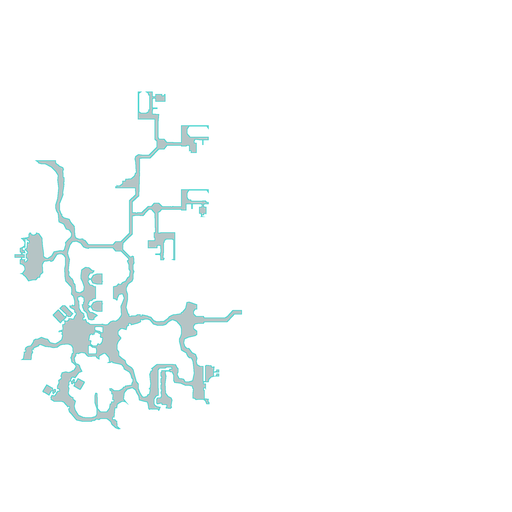
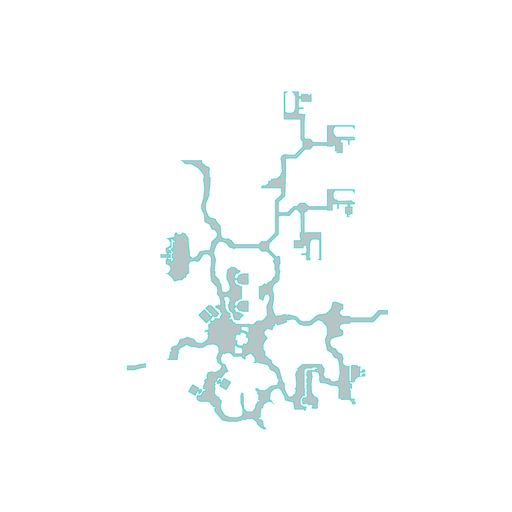
Restore full Windurst map and align grid

Changed region(s): [[0.0312, 0.1562, 0.75, 0.8438], [0.5, 0.1562, 0.6875, 0.5312]]

diff --git a/tools/generate_vanilla_layer.py b/tools/generate_vanilla_layer.py
@@ -6,7 +6,7 @@ from __future__ import annotations
 import argparse
 from pathlib import Path
 
-from PIL import Image
+from PIL import Image, ImageChops
 
 from generate_vanilla_map import decode, parse_box
 
@@ -16,6 +16,12 @@ def main() -> None:
     parser.add_argument("source", type=Path)
     parser.add_argument("destination", type=Path)
     parser.add_argument(
+        "--x-offset",
+        type=int,
+        default=0,
+        help="cyclic horizontal source offset applied before visibility masking",
+    )
+    parser.add_argument(
         "--box",
         type=parse_box,
         default=(0, 0, 512, 512),
@@ -24,6 +30,8 @@ def main() -> None:
     arguments = parser.parse_args()
 
     source = decode(arguments.source).convert("RGBA")
+    if arguments.x_offset:
+        source = ImageChops.offset(source, arguments.x_offset, 0)
     output = Image.new("RGBA", source.size, (0, 0, 0, 0))
     left, top, _, _ = arguments.box
     region = source.crop(arguments.box)

diff --git a/assets/maps/241.md b/assets/maps/241.md
@@ -2,15 +2,14 @@
 
 ## Optional vanilla layer
 
-`241_vanilla.png` is decoded directly from `<FFXI>/ROM/18/72.DAT`. The
-Windurst Woods page occupies source rectangle `(0,0)-(364,512)`; the adjacent
-composite page is transparent in this layer. Source alpha is normalized to
-opaque so the addon's independent vanilla-opacity slider is a direct 0–100%
-control.
+`241_vanilla.png` is decoded directly from `<FFXI>/ROM/18/72.DAT`. The source
+page wraps horizontally at x=366. A cyclic +146 px offset restores the missing
+A-D section to the left of E-O, producing the complete 512 × 512 Windurst Woods
+page. Source alpha is normalized to opaque so the addon's independent
+vanilla-opacity slider is a direct 0–100% control.
 
-The rectangle includes the full coordinate strip and page border and ends
-immediately before the two-pixel dark separator. The same rectangle is stored
-as `view_bounds`, making the complete vanilla page the maximum zoom-out view.
+The full rectangle `(0,0)-(512,512)` is stored as `view_bounds`, making the
+complete vanilla page the maximum zoom-out view.
 When the overview viewport reaches a page edge, the camera moves the player
 off-center rather than hiding the opposite edge. This affects only screen
 framing, not calibration.
@@ -19,7 +18,8 @@ framing, not calibration.
 python tools/generate_vanilla_layer.py \
   <FFXI>/ROM/18/72.DAT \
   assets/maps/241_vanilla.png \
-  --box 0,0,364,512
+  --x-offset 146 \
+  --box 0,0,512,512
 ```
 
 ## Walkable structure (current)
@@ -35,11 +35,11 @@ python tools/generate_walkable_map.py \
   <xiNavmeshOBJs>/obj/Windurst_Woods.obj \
   <xiNavmeshes>/Windurst_Woods.nav \
   assets/maps/241_structure.png \
-  --origin-x 108.5 \
+  --origin-x 254.5 \
   --origin-y 288.0 \
   --pixels-per-yalm 0.80 \
   --seed 15,0 \
-  --exclude-box 0,360,61,371
+  --exclude-box 146,360,207,371
 ```
 
 The generator validates that both sources share an origin and keeps only the
@@ -60,7 +60,7 @@ See `THIRD_PARTY_NOTICES.md` for source revisions and licensing.
 - Vanilla DAT: `<FFXI>/ROM/18/72.DAT`
 - Embedded page identifier: `m_241_00`
 - Source dimensions: `512 × 512`
-- Horizontal wrap: none
+- Horizontal unwrap offset: `+146 px`
 
 The source was decoded directly with `tools/generate_vanilla_map.py`. The
 vanilla and walkable-structure layers retain identical source dimensions and
@@ -76,19 +76,18 @@ The vanilla coordinate grid is 32 source pixels per cell. Windurst Woods uses
 image_pixels_per_yalm = 32 / 40 = 0.80
 ```
 
-The page is not horizontally wrapped. The decoded artwork grid is not a
-reliable renderer origin for this page. With both minimaps set to the measured
-stock scale of `3.13 px/yalm`, live NPC control points align while the custom
-artwork is `130` screen pixels down and `4` screen pixels left. At
-`3.13 / 0.80 = 3.9125` screen pixels per source pixel, this is a correction of
-approximately `+33` source pixels vertically and `-1` horizontally:
+After the +146 px horizontal unwrap, the decoded artwork grid is not itself a
+reliable navigation-geometry origin. Live NPC control points establish:
 
 ```text
-origin_x = 108.5
+origin_x = 254.5
 origin_y = 288.0
 ```
 
 These source-image values are independent of viewport size and display zoom.
+The vanilla artwork's H-8 grid center is `(255, 256)`, so the renderer stores
+that as a separate grid origin. It must not use the geometry origin `(254.5,
+288)` for quadrant labels; doing so shifts every displayed row down by one.
 Calibrate against stock-rendered geometry only after matching zoom via live
 entity control points; do not infer the renderer origin from decorative grid
 pixels.

diff --git a/docs/MAP_CALIBRATION.md b/docs/MAP_CALIBRATION.md
@@ -21,7 +21,8 @@ The same transform must be used for:
 - the structure layer;
 - the player marker;
 - entity and target markers;
-- the Lua-rendered coordinate grid.
+- the Lua-rendered coordinate grid, using its own recorded grid anchor when the
+  printed vanilla grid does not center on world `(0, 0)`.
 
 Display size and user zoom are a later screen-space transform. They must never
 be folded into the source-image calibration.
@@ -53,6 +54,8 @@ Required fields are:
     view_bounds = { left = 0, top = 0, right = 512, bottom = 512 },
     origin_x = 253,
     origin_y = 253,
+    grid_origin_x = 255,
+    grid_origin_y = 255,
     grid_yalms = 40,
     image_pixels_per_yalm = 0.80,
 },
@@ -64,6 +67,12 @@ separate vanilla and walkable-structure layers when the source permits it.
 padding or an adjacent composite page. It defines the calibrated source-pixel
 rectangle that the overview camera should keep visible; it does not crop or
 recalibrate any layer.
+
+`grid_origin_x` and `grid_origin_y` are optional source-image coordinates for
+the center of vanilla cell H-8. When omitted, they default to `origin_x` and
+`origin_y`. Record them separately when the printed grid and navigation
+geometry use different origins; forcing the geometry origin onto the grid can
+shift every displayed quadrant by a full row or column.
 
 ## Deterministic import procedure
 
@@ -94,6 +103,8 @@ recalibrate any layer.
    repository-wide default as calibration.
 6. Determine the image pixel represented by world `(0, 0)`. That pixel becomes
    `origin_x`, `origin_y` after all wrap and crop operations.
+   Separately record the printed H-8 cell center as `grid_origin_x`,
+   `grid_origin_y` when it differs from world `(0, 0)`.
 7. Derive `image_pixels_per_yalm` from source metadata or at least two verified,
    widely separated control points:
 
